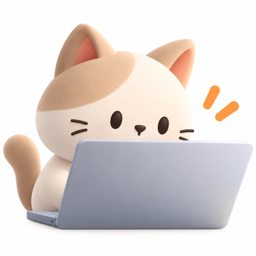
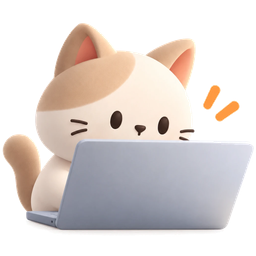
Apply Leo color palette with near-white background
- Palette tokens (brand, brand-deep, lion, cocoa, butter, sand, cream,
  sage, steel, charcoal) plus paper #FFFEFC as page background; role
  tokens now point at the palette, so components didn't change
- Contrast-checked roles on paper: fg 14.8, secondary 9.2, muted 5.5,
  label (lion) 5.1, link (cocoa) 10.2; orange is never text, buttons use
  charcoal on orange (6.0)
- Filled buttons deepen to Deep Orange on hover (primary-hover) with the
  existing grow effect; link hover is Deep Orange; selection is butter
- Logo background made transparent (header, favicon, OG); apple-icon
  flattened on paper since iOS fills transparency with black
- OG image colors and AGENTS.md color rules updated

diff --git a/app/globals.css b/app/globals.css
@@ -4,17 +4,37 @@
 @font-face { font-family: 'Gmarket Sans'; font-weight: 500; font-display: swap; src: url('/fonts/GmarketSansTTFMedium.ttf') format('truetype'); }
 @font-face { font-family: 'Gmarket Sans'; font-weight: 700; font-display: swap; src: url('/fonts/GmarketSansTTFBold.ttf') format('truetype'); }
 
-/* 토큰: DESIGN.md (Apple 웹 레퍼런스) → bg-primary, text-muted, font-sans, max-w-wrap ... */
+/* 토큰. 색은 레오 팔레트(2026-10-01) + 배경 흰색(paper) — DESIGN.md(Apple)는 이제 타이포·레이아웃 참고용.
+   컴포넌트는 역할 이름(primary, fg, surface…)만 쓴다. 팔레트 이름(brand, lion…)은 그래픽·새 역할 정의용. */
 @theme {
-  --color-primary: #0071e3;
-  --color-on-primary: #ffffff;
-  --color-link: #0066cc;
-  --color-fg: #1d1d1f;
-  --color-muted: #6e6e73;
-  --color-secondary: #515154;
-  --color-fog: #f5f5f7;
-  --color-surface: #ffffff;
-  --color-line: #e5e5ea;
+  /* 팔레트 원색 (Tailwind 기본색과 이름이 겹치지 않게: Orange→brand, Slate Blue→steel) */
+  --color-brand: #F28A3A;      /* Brand Orange — 메인 포인트 */
+  --color-brand-deep: #D96824; /* Deep Orange — 버튼 호버, 강조 */
+  --color-lion: #9A6038;       /* Lion Brown — 카테고리, 그래픽 */
+  --color-cocoa: #563A2D;      /* Deep Brown — 진한 포인트 */
+  --color-butter: #F4C86A;     /* Butter Yellow — 하이라이트 */
+  --color-sand: #E7D1B5;       /* Sand — 카드/섹션 배경 */
+  --color-cream: #F6EBDD;      /* Warm Cream — 메인 배경 */
+  --color-sage: #819477;       /* Sage Green — 서브 포인트 */
+  --color-steel: #71829B;      /* Slate Blue — 기술적인 서브 */
+  --color-charcoal: #292725;   /* Charcoal — 본문/제목 */
+  --color-paper: #FFFEFC;      /* 팔레트 밖: 거의 중립인 흰색 (따뜻함 아주 약간) — 페이지 배경 */
+
+  /* 역할 (대비는 paper 배경 기준, WCAG AA 4.5:1 이상) */
+  --color-surface: var(--color-paper);      /* 페이지 배경 */
+  --color-fg: var(--color-charcoal);        /* 본문·제목 14.7:1 */
+  --color-secondary: #494745;               /* 리드 문단 — charcoal 85% on paper, 9.2:1 */
+  --color-muted: #696866;                   /* 요약·날짜 — charcoal 70% on paper, 5.5:1 */
+  --color-label: var(--color-lion);         /* 카테고리 라벨 5.0:1 */
+  --color-link: var(--color-cocoa);         /* 링크 10.1:1 */
+  --color-link-hover: var(--color-brand-deep); /* 링크·메뉴 호버 (일시 상태) */
+  --color-primary: var(--color-brand);      /* 채운 버튼 */
+  --color-primary-hover: var(--color-brand-deep);
+  --color-on-primary: var(--color-charcoal); /* 오렌지 위 글자 — 흰색은 2.5:1이라 불가, 차콜 6.0:1 */
+  --color-fog: var(--color-cream);          /* 입력창·태그·탭·빈 썸네일 (면) */
+  --color-line: var(--color-sand);          /* 구분선 */
+  --color-highlight: var(--color-butter);   /* 텍스트 선택 */
+
   --font-sans: 'Gmarket Sans', -apple-system, BlinkMacSystemFont, 'Apple SD Gothic Neo', sans-serif;
   --container-wrap: 1120px;
   --radius-pill: 980px;  /* 버튼, 검색창 */
@@ -37,10 +57,11 @@
 @utility t-label    { font-size: 12px; line-height: 16px; font-weight: 500; letter-spacing: .4px; text-transform: uppercase; } /* 카테고리 */
 
 /* 상호작용 — 누를 수 있는 것은 이 셋 중 하나를 쓴다 (AGENTS.md). DESIGN.md엔 호버가 없어 이건 우리 확장.
-   press: 버튼·탭 (호버 살짝 확대, 누르면 살짝 축소) / link-hover: 텍스트 링크 (파랑으로 부드럽게)
+   press: 버튼·탭 (호버 살짝 확대, 누르면 살짝 축소) / link-hover: 텍스트 링크 (Deep Orange로 부드럽게)
+   primary-hover: 채운 버튼 호버 색 (Brand → Deep Orange)
    arrow: 링크 안의 → (부모에 group, 호버 시 오른쪽으로) */
 @utility press {
-  transition: scale 0.2s var(--ease-standard);
+  transition: scale 0.2s var(--ease-standard), background-color 0.2s var(--ease-standard);
   &:hover { scale: 1.03; }
   &:active { scale: 0.97; }
   @media (prefers-reduced-motion: reduce) { transition: none; &:hover, &:active { scale: none; } }
@@ -53,7 +74,11 @@
 }
 @utility link-hover {
   transition: color 0.2s var(--ease-standard);
-  &:hover { color: var(--color-link); }
+  &:hover { color: var(--color-link-hover); }
+}
+/* 채운 버튼의 호버 색 (press의 크기 효과와 함께) */
+@utility primary-hover {
+  &:hover { background-color: var(--color-primary-hover); }
 }
 @utility arrow {
   display: inline-block;
@@ -66,5 +91,6 @@
   body {
     @apply bg-surface text-fg font-sans font-light t-body tracking-[-0.374px] antialiased break-keep overflow-x-clip;
   }
-  :focus-visible { @apply outline-2 outline-offset-2 outline-primary; }
+  :focus-visible { @apply outline-2 outline-offset-2 outline-link; }
+  ::selection { background: var(--color-highlight); color: var(--color-fg); }
 }

diff --git a/lib/og.tsx b/lib/og.tsx
@@ -6,7 +6,7 @@ import { SITE } from './site';
 
 // 링크 미리보기(OG) 이미지 1200×630. 이미지 렌더러(Satori)는 CSS 변수·webp를 못 읽어서
 // 색은 app/globals.css 토큰 값을 그대로 옮겨 적고, 로고는 png를 쓴다. 토큰을 바꾸면 여기도 맞출 것.
-const C = { fg: '#1d1d1f', muted: '#6e6e73', surface: '#ffffff', line: '#e5e5ea' };
+const C = { fg: '#292725', label: '#9A6038', surface: '#FFFEFC', line: '#E7D1B5' }; // charcoal, lion, paper, sand
 export const OG_SIZE = { width: 1200, height: 630 };
 
 const pub = (f: string) => readFile(path.join(process.cwd(), 'public', f));
@@ -34,7 +34,7 @@ export async function renderOg({ locale, title, label }: { locale: Locale; title
   const body = title ? (
     <div style={{ display: 'flex', flexDirection: 'column', justifyContent: 'space-between', width: '100%', height: '100%', padding: 80 }}>
       <div style={{ display: 'flex', flexDirection: 'column', gap: 24 }}>
-        {label && <div style={{ fontSize: 26, fontWeight: 500, color: C.muted, letterSpacing: 1 }}>{label.toUpperCase()}</div>}
+        {label && <div style={{ fontSize: 26, fontWeight: 500, color: C.label, letterSpacing: 1 }}>{label.toUpperCase()}</div>}
         <div style={{ fontSize: title.length > 40 ? 56 : 68, fontWeight: 700, color: C.fg, lineHeight: 1.25, letterSpacing: -1, wordBreak: 'keep-all' }}>{title}</div>
       </div>
       <div style={{ display: 'flex', alignItems: 'center', gap: 16, borderTop: `2px solid ${C.line}`, paddingTop: 32 }}>

diff --git a/components/ui/Button.tsx b/components/ui/Button.tsx
@@ -2,7 +2,7 @@ import Link from 'next/link';
 
 // DESIGN.md: lg = 44px / 11px 21px / 17px, sm = 36px / 8px 15px / 14px. 980px pill.
 const VARIANT = {
-  primary: 'bg-primary text-on-primary',
+  primary: 'bg-primary text-on-primary primary-hover',
   outline: 'border border-link text-link',
 };
 const SIZE = {

diff --git a/components/ui/Eyebrow.tsx b/components/ui/Eyebrow.tsx
@@ -1,3 +1,3 @@
 export default function Eyebrow({ children }: { children: React.ReactNode }) {
-  return <span className="t-label text-muted">{children}</span>;
+  return <span className="t-label text-label">{children}</span>;
 }
